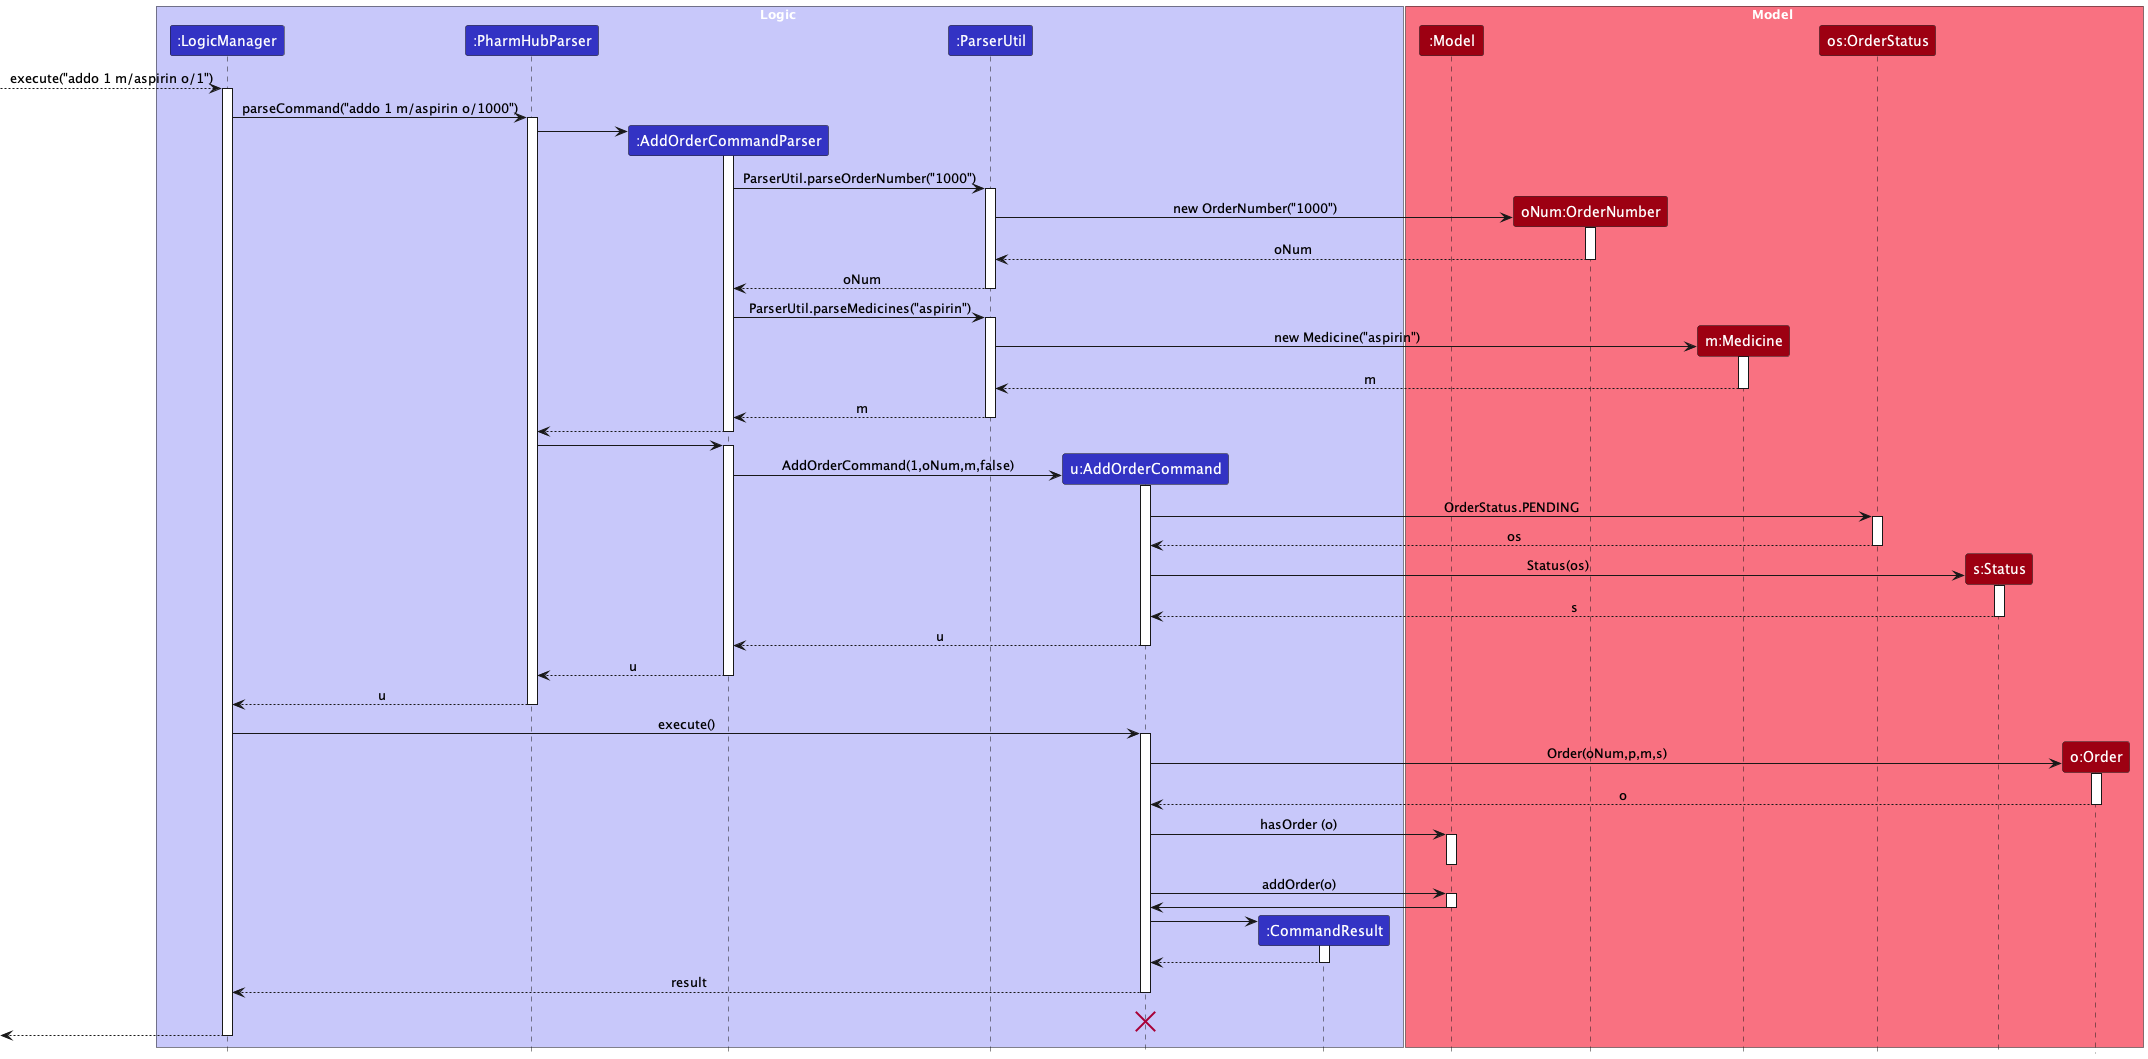
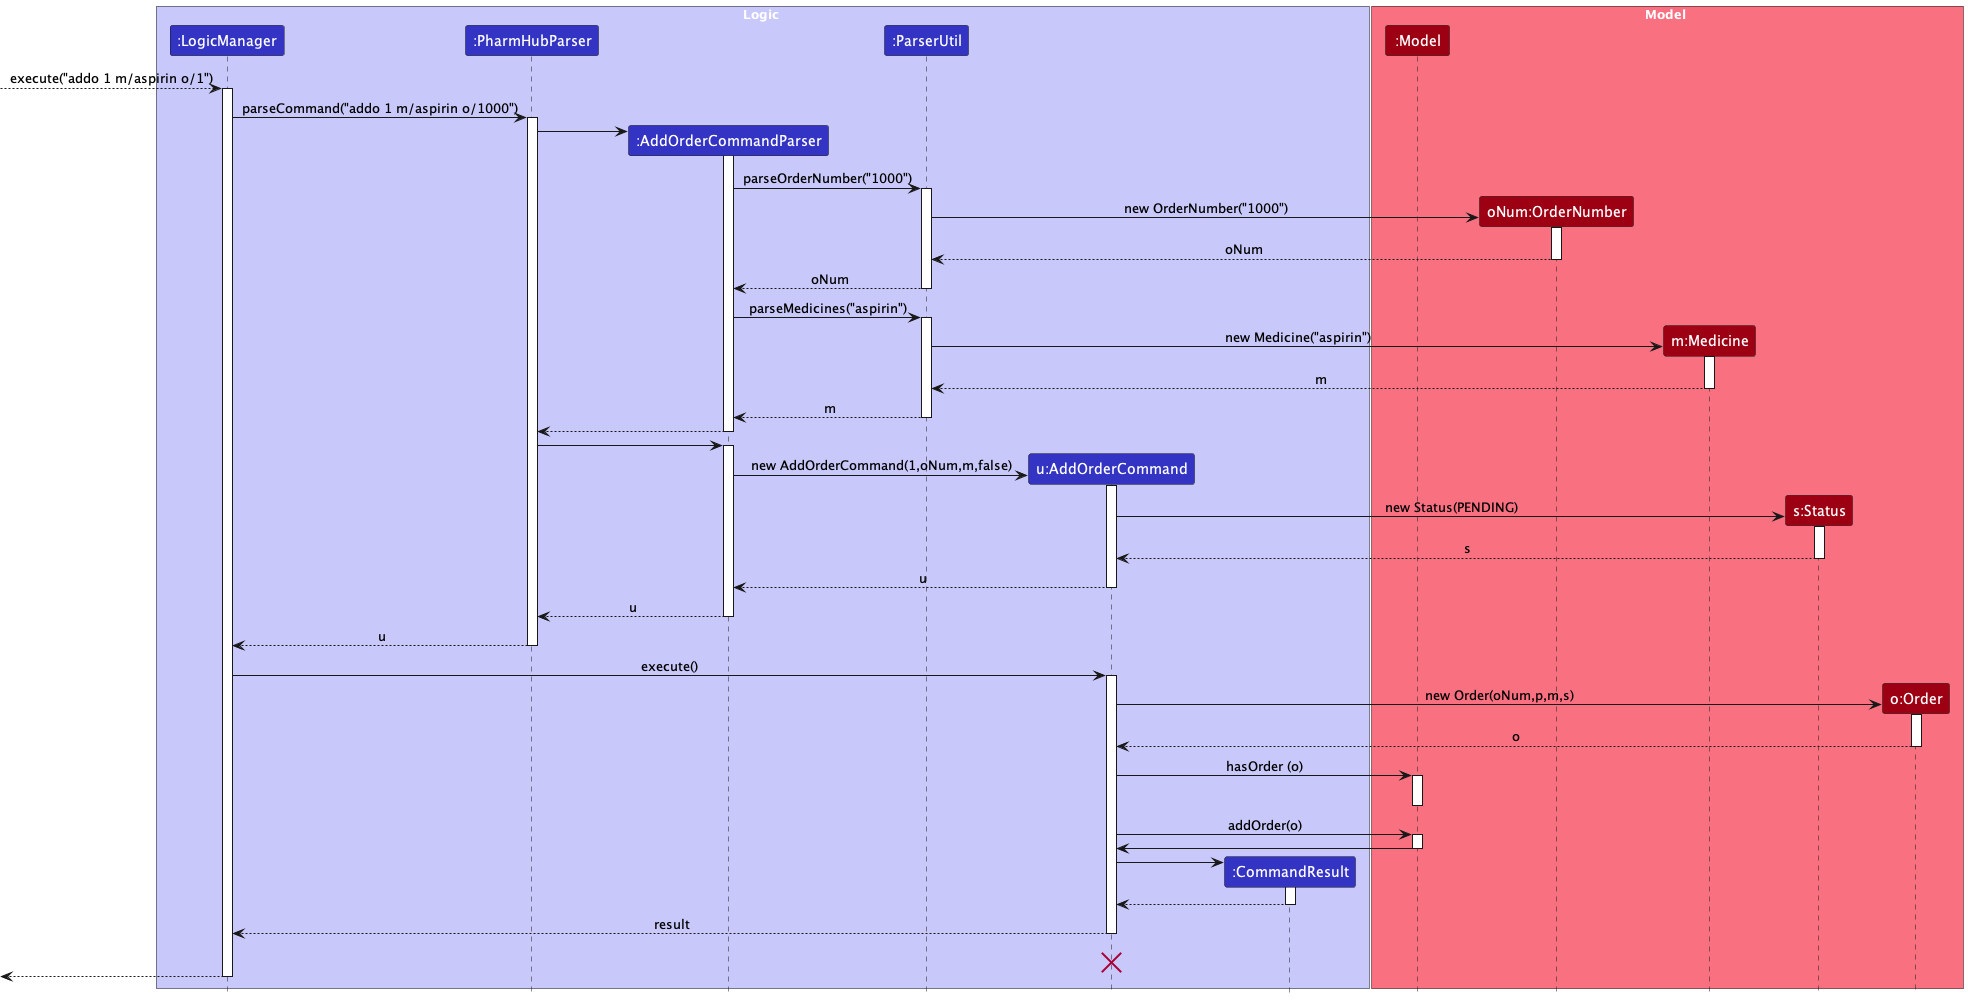
Update image and width of image

diff --git a/docs/DeveloperGuide.md b/docs/DeveloperGuide.md
@@ -152,7 +152,7 @@ The `Model` component,
 
 **API** : [`Storage.java`](https://github.com/AY2324S1-CS2103T-W08-4/tp/tree/master/src/main/java/seedu/address/storage/Storage.java)
 
-<img src="images/PharmHubStorageClassDiagram.png" width="700" />
+<img src="images/PharmHubStorageClassDiagram.png" width="900" />
 
 The `Storage` component,
 * can save both PharmHub data and user preference data in JSON format, and read them back into corresponding objects.
@@ -195,11 +195,10 @@ will then check and create an `Index`, `OrderNumber` and `Medicine` passing it t
 `person`, `orderNumber`, `medicine` and a `PENDING` Status, then `Model#hasOrder` also checks whether the order is a duplicated order.
 7. If the order does not exist, then the `Model#addOrder` adds the order into the order list.
 
-#### Design Consideration
-
 The following sequence diagram shows how `addo` works on an example input. `addo 1 m/aspirin o/1000`
 
-![AddOrderSequenceDiagram](images/AddoSequenceDiagram.png)
+<img src="images/AddoSequenceDiagram.png" width="1400" />
+
 
 ### Finding an Order Feature
 
@@ -223,11 +222,9 @@ The finding an Order feature allows the user to find other base on either the or
 7. The `Model#updateFilteredOrder` will then take either or both `Status` and `Medicine` as predicates to filter through the order list and return valid orders.
 8. The filtered order list will then be returned and shown on the Displayed list.
 
-#### Design Consideration
-
 The following sequence diagram shows how `findo` works on an example input. `findo s/pd m/pan ibuprofen`
 
-![FindOrderSequenceDiagram](images/FindoSequenceDiagram.png)
+<img src="images/FindoSequenceDiagram.png" width="1200" />
 
 ### \[Proposed\] Undo/redo feature
 
